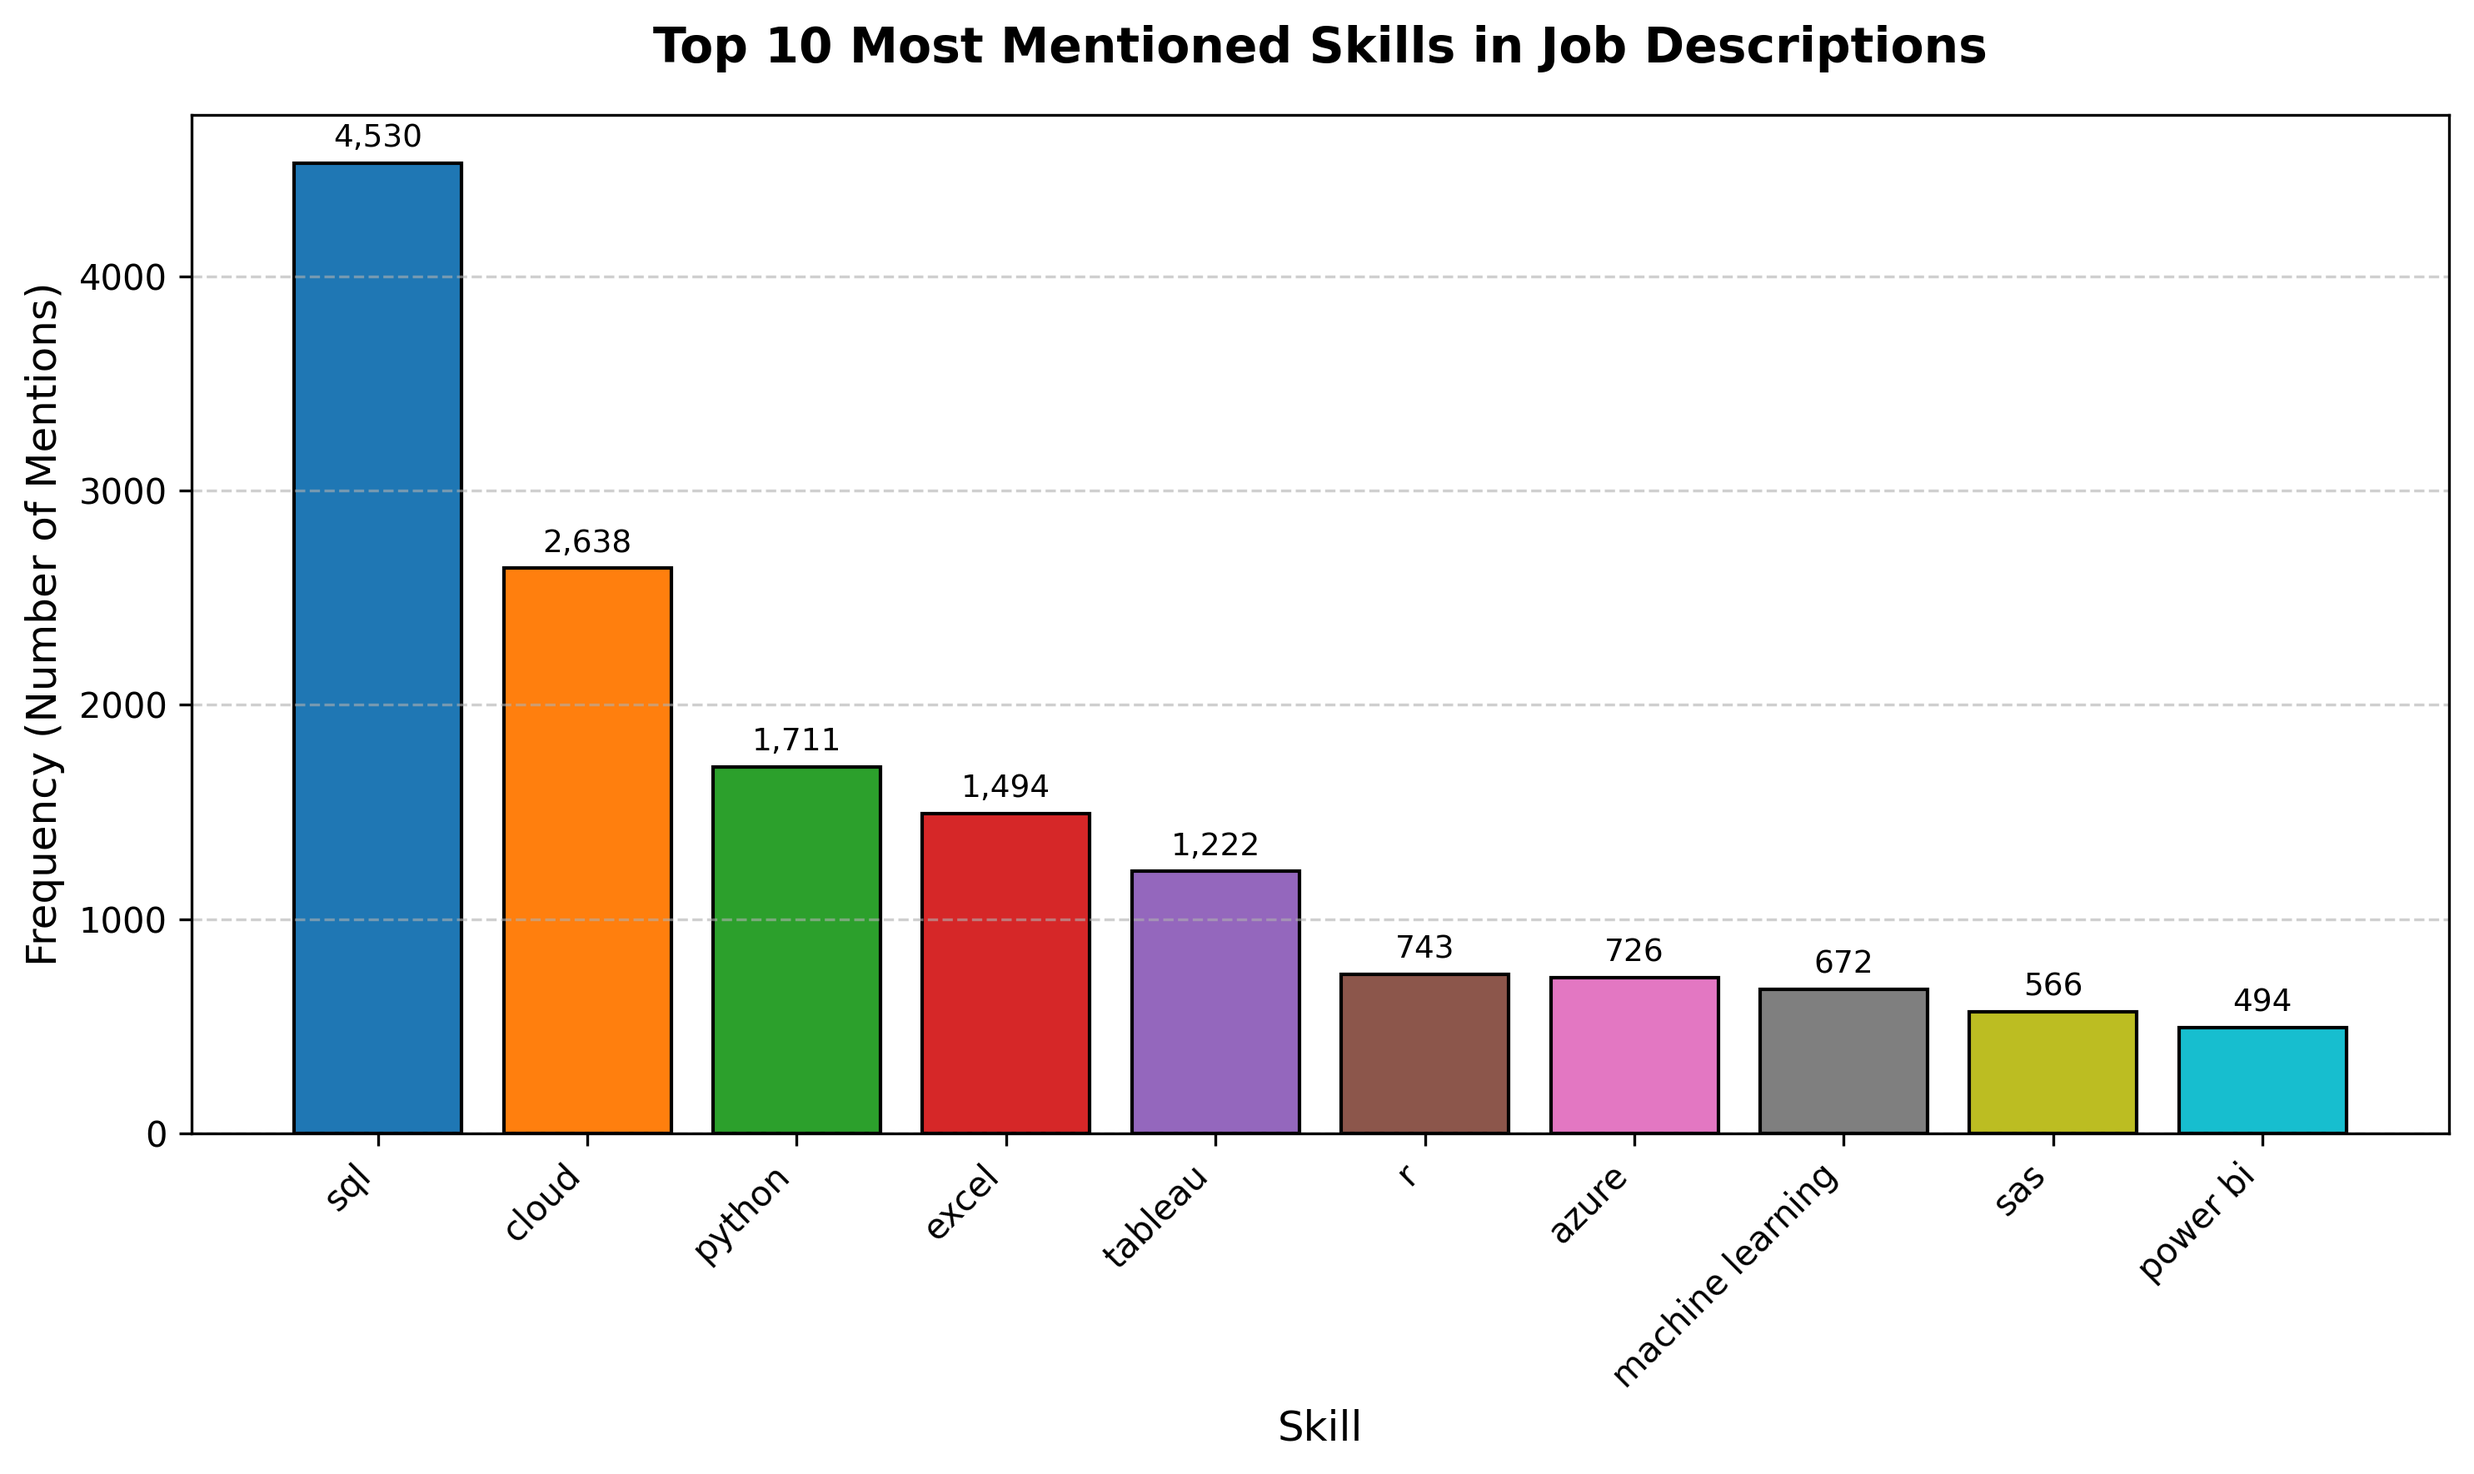
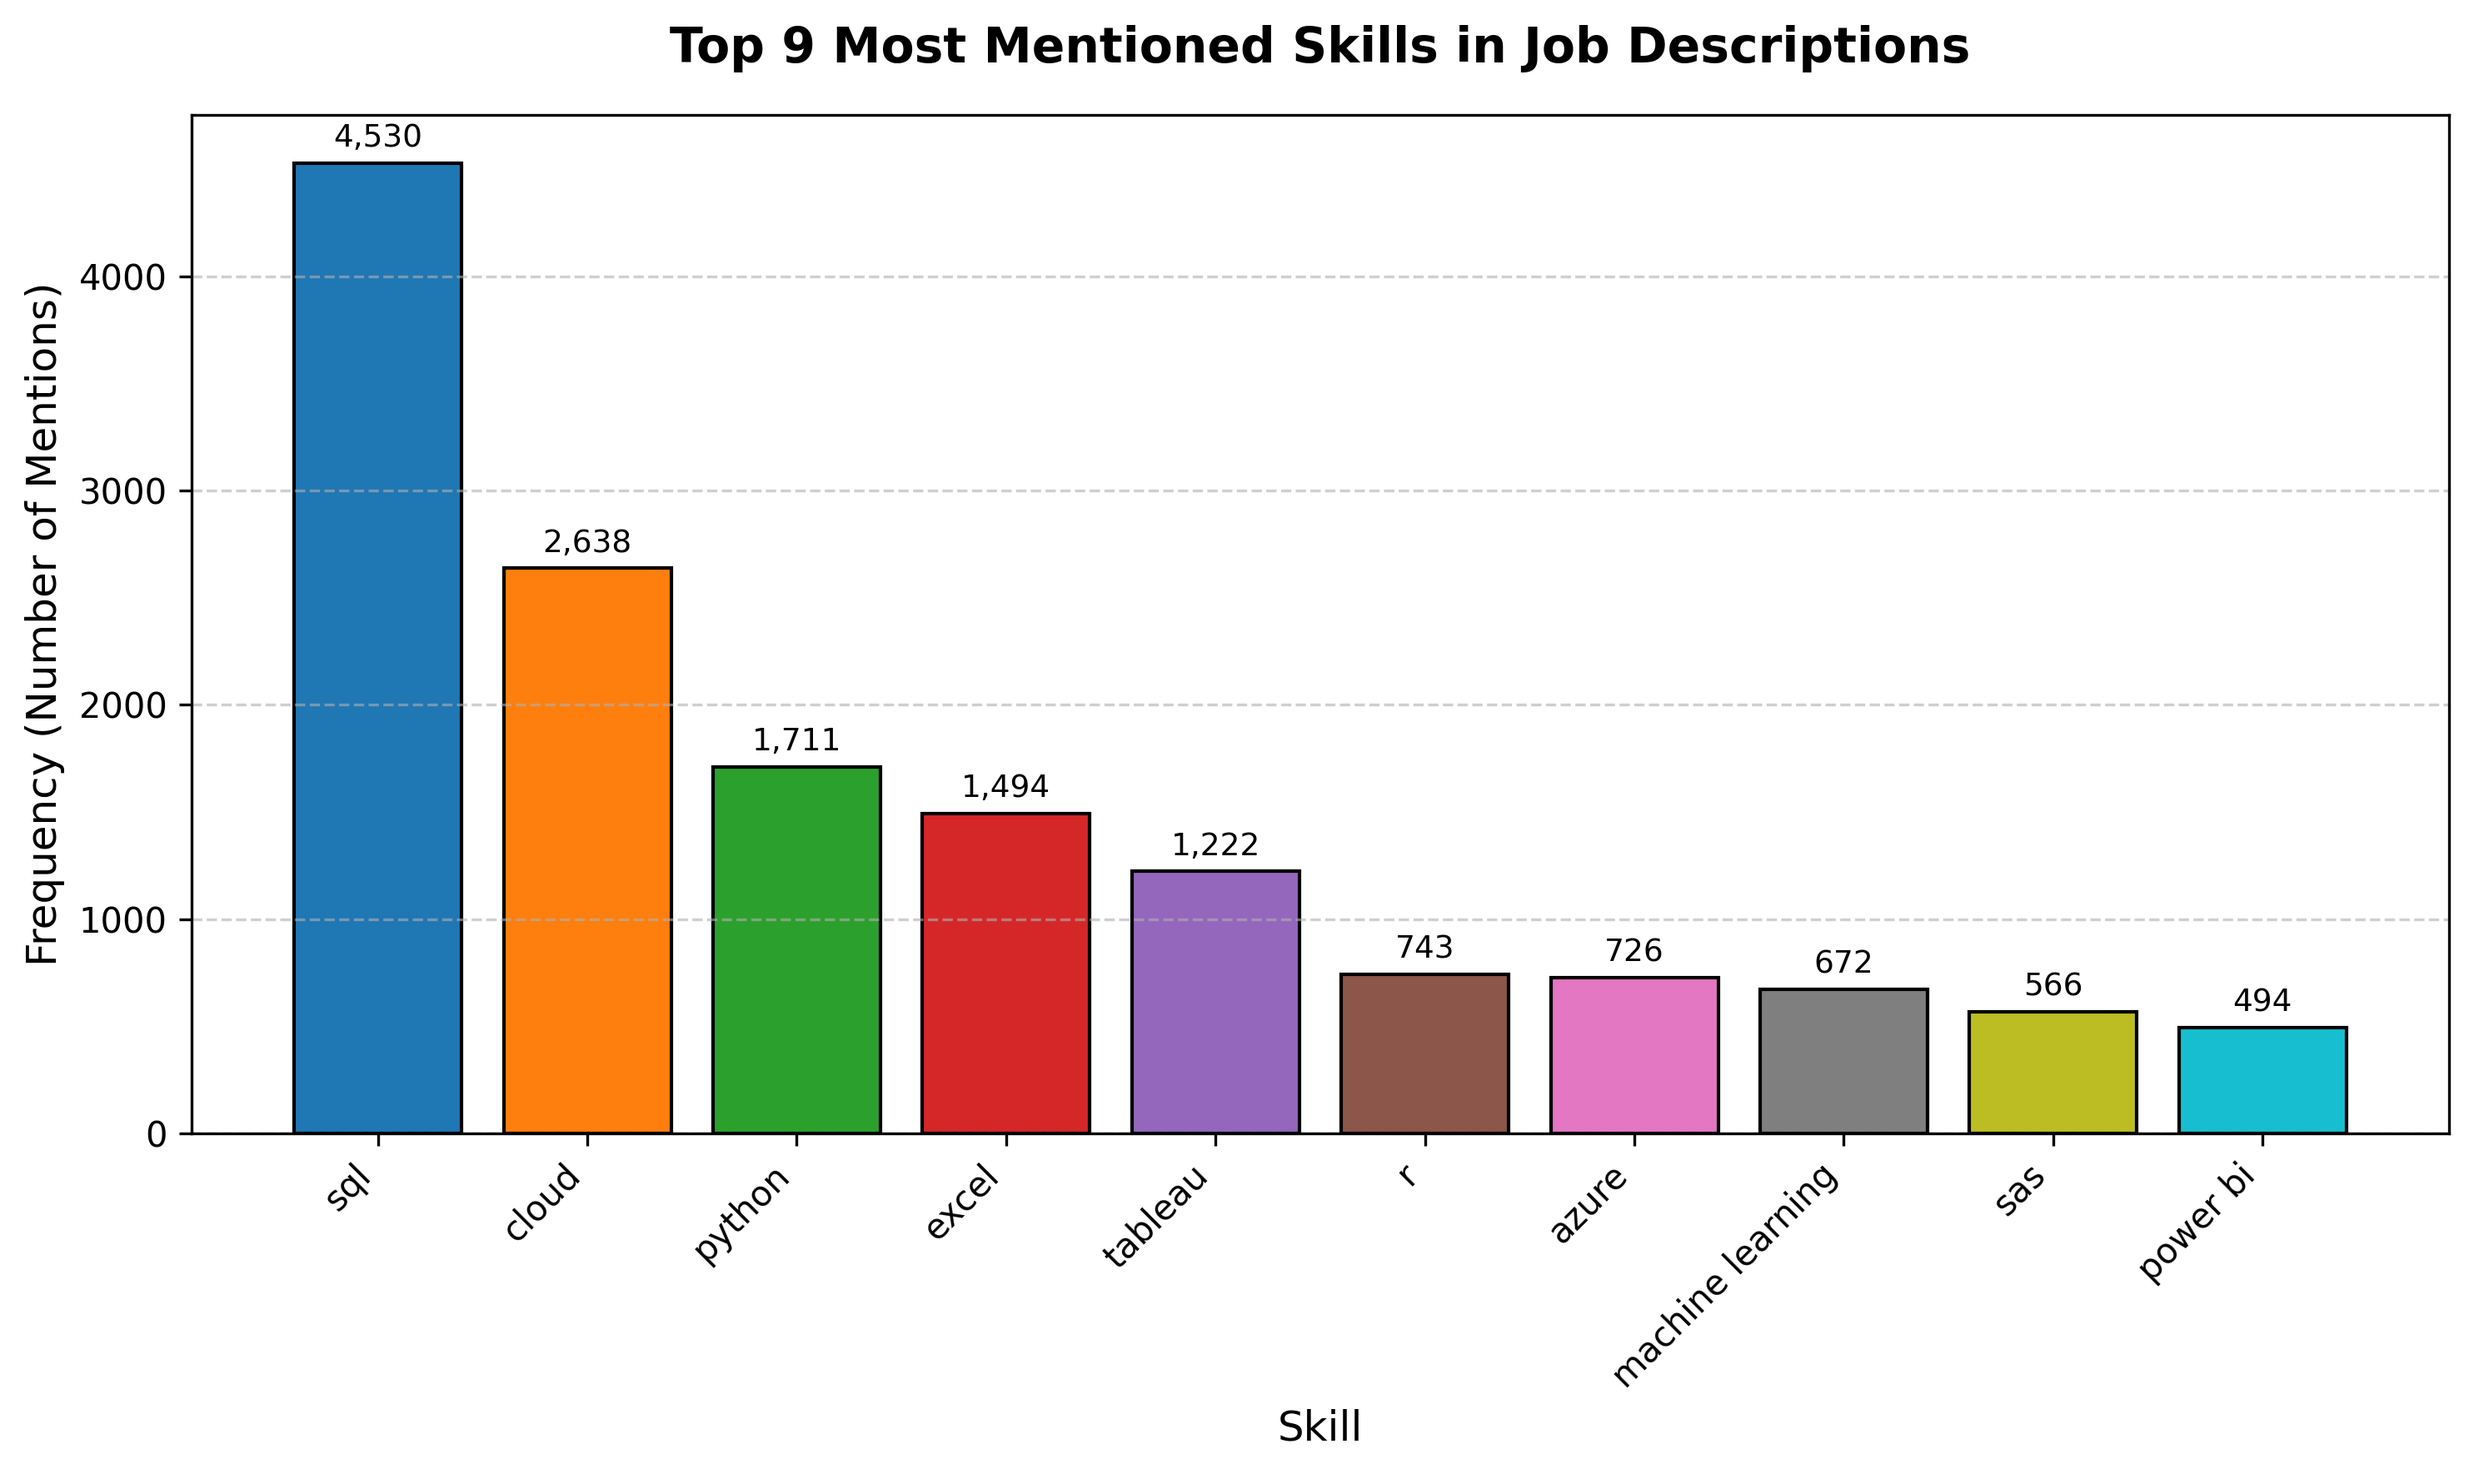
skill gap updated numbers

Changed region(s): [[0.2788, 0.0, 0.8054, 0.0621]]

diff --git a/docs/skill_gap_analysis.html b/docs/skill_gap_analysis.html
@@ -218,7 +218,7 @@ pre > code.sourceCode > span > a:first-child::before { text-decoration: underlin
 <section id="team-dataframe" class="level1" data-number="1">
 <h1 data-number="1"><span class="header-section-number">1</span> Team Dataframe</h1>
 <p>Our team conducted an overview of our current technical skills when it comes to Business Analytics and our skill levels. The goal was to understand where the group’s strengths and weaknesses were, and understand how the data that was collected could relate to the data that was observed in the research conducted. This was used to identify strengths and weaknesses for the group while also identifying potential gaps within the group.</p>
-<div id="cff58336" class="cell" data-execution_count="1">
+<div id="b8f48ec5" class="cell" data-execution_count="1">
 <details class="code-fold">
 <summary>Code</summary>
 <div class="sourceCode cell-code" id="cb1"><pre class="sourceCode python code-with-copy"><code class="sourceCode python"><span id="cb1-1"><a href="#cb1-1" aria-hidden="true" tabindex="-1"></a><span class="im">import</span> pandas <span class="im">as</span> pd</span>
@@ -226,12 +226,12 @@ pre > code.sourceCode > span > a:first-child::before { text-decoration: underlin
 <span id="cb1-3"><a href="#cb1-3" aria-hidden="true" tabindex="-1"></a><span class="co"># Extended skills data</span></span>
 <span id="cb1-4"><a href="#cb1-4" aria-hidden="true" tabindex="-1"></a>skills_data <span class="op">=</span> {</span>
 <span id="cb1-5"><a href="#cb1-5" aria-hidden="true" tabindex="-1"></a>    <span class="st">"Name"</span>: [<span class="st">"Anu"</span>, <span class="st">"Cindy"</span>, <span class="st">"Gavin"</span>],</span>
-<span id="cb1-6"><a href="#cb1-6" aria-hidden="true" tabindex="-1"></a>    <span class="st">"Data Analysis"</span>: [<span class="dv">3</span>, <span class="dv">1</span>, <span class="dv">4</span>],</span>
-<span id="cb1-7"><a href="#cb1-7" aria-hidden="true" tabindex="-1"></a>    <span class="st">"Python"</span>: [<span class="dv">5</span>, <span class="dv">3</span>, <span class="dv">4</span>],</span>
-<span id="cb1-8"><a href="#cb1-8" aria-hidden="true" tabindex="-1"></a>    <span class="st">"SQL"</span>: [<span class="dv">4</span>, <span class="dv">2</span>, <span class="dv">5</span>],</span>
-<span id="cb1-9"><a href="#cb1-9" aria-hidden="true" tabindex="-1"></a>    <span class="st">"Machine Learning"</span>: [<span class="dv">3</span>, <span class="dv">1</span>, <span class="dv">4</span>],</span>
-<span id="cb1-10"><a href="#cb1-10" aria-hidden="true" tabindex="-1"></a>    <span class="st">"Cloud Computing"</span>: [<span class="dv">2</span>, <span class="dv">2</span>, <span class="dv">3</span>],</span>
-<span id="cb1-11"><a href="#cb1-11" aria-hidden="true" tabindex="-1"></a>    <span class="st">"Power BI"</span>: [<span class="dv">3</span>, <span class="dv">2</span>, <span class="dv">4</span>],</span>
+<span id="cb1-6"><a href="#cb1-6" aria-hidden="true" tabindex="-1"></a>    <span class="st">"Data Analysis"</span>: [<span class="dv">3</span>, <span class="dv">4</span>, <span class="dv">4</span>],</span>
+<span id="cb1-7"><a href="#cb1-7" aria-hidden="true" tabindex="-1"></a>    <span class="st">"Python"</span>: [<span class="dv">5</span>, <span class="dv">3</span>, <span class="dv">3</span>],</span>
+<span id="cb1-8"><a href="#cb1-8" aria-hidden="true" tabindex="-1"></a>    <span class="st">"SQL"</span>: [<span class="dv">4</span>, <span class="dv">3</span>, <span class="dv">2</span>],</span>
+<span id="cb1-9"><a href="#cb1-9" aria-hidden="true" tabindex="-1"></a>    <span class="st">"Machine Learning"</span>: [<span class="dv">3</span>, <span class="dv">2</span>, <span class="dv">2</span>],</span>
+<span id="cb1-10"><a href="#cb1-10" aria-hidden="true" tabindex="-1"></a>    <span class="st">"Cloud Computing"</span>: [<span class="dv">2</span>, <span class="dv">3</span>, <span class="dv">2</span>],</span>
+<span id="cb1-11"><a href="#cb1-11" aria-hidden="true" tabindex="-1"></a>    <span class="st">"Power BI"</span>: [<span class="dv">3</span>, <span class="dv">5</span>, <span class="dv">3</span>],</span>
 <span id="cb1-12"><a href="#cb1-12" aria-hidden="true" tabindex="-1"></a>    </span>
 <span id="cb1-13"><a href="#cb1-13" aria-hidden="true" tabindex="-1"></a>}</span>
 <span id="cb1-14"><a href="#cb1-14" aria-hidden="true" tabindex="-1"></a></span>
@@ -253,7 +253,7 @@ pre > code.sourceCode > span > a:first-child::before { text-decoration: underlin
 <span id="cb1-30"><a href="#cb1-30" aria-hidden="true" tabindex="-1"></a><span class="co"># df_styled</span></span></code><button title="Copy to Clipboard" class="code-copy-button"><i class="bi"></i></button></pre></div>
 </details>
 </div>
-<div id="fdccaf81" class="cell" data-execution_count="2">
+<div id="324597bf" class="cell" data-execution_count="2">
 <details class="code-fold">
 <summary>Code</summary>
 <div class="sourceCode cell-code" id="cb2"><pre class="sourceCode python code-with-copy"><code class="sourceCode python"><span id="cb2-1"><a href="#cb2-1" aria-hidden="true" tabindex="-1"></a><span class="im">import</span> seaborn <span class="im">as</span> sns</span>
@@ -290,7 +290,7 @@ pre > code.sourceCode > span > a:first-child::before { text-decoration: underlin
 <p>When looking at our groups skill gaps, the group should focus on our weakest points which are cloud computing and machine learning. Each group member can enroll in free online certifications such as certifications that were taken in this course that can enable learning about the systems that would be used like AWS or machine learning platforms. These platforms often provide trainings for little to no cost, and while attending a university can obtain discounts in order to obtain the certifications that would be required to enable jobs that would result in more exposure to amplify the skills to increase the proficiency for each individual in the group. AWS Certifications hold a majority of the market because of their market share, and starting with</p>
 <p>(Refine this, look at AWS classes and list what they can provide and how much they would cost, which ones are the most beneficial)</p>
 <p>For Machine learning (find specific examples)</p>
-<div id="7ebb334f" class="cell" data-execution_count="3">
+<div id="4ae9b416" class="cell" data-execution_count="3">
 <details class="code-fold">
 <summary>Code</summary>
 <div class="sourceCode cell-code" id="cb3"><pre class="sourceCode python code-with-copy"><code class="sourceCode python"><span id="cb3-1"><a href="#cb3-1" aria-hidden="true" tabindex="-1"></a><span class="co"># Skill Key Words</span></span>
@@ -344,7 +344,7 @@ pre > code.sourceCode > span > a:first-child::before { text-decoration: underlin
 <span id="cb3-49"><a href="#cb3-49" aria-hidden="true" tabindex="-1"></a>skills_df <span class="op">=</span> skills_df.sort_values(by<span class="op">=</span><span class="st">"Count"</span>, ascending<span class="op">=</span><span class="va">False</span>).reset_index(drop<span class="op">=</span><span class="va">True</span>)</span>
 <span id="cb3-50"><a href="#cb3-50" aria-hidden="true" tabindex="-1"></a>skills_df.head(<span class="dv">10</span>)</span></code><button title="Copy to Clipboard" class="code-copy-button"><i class="bi"></i></button></pre></div>
 </details>
-<div class="cell-output cell-output-display" data-execution_count="41">
+<div class="cell-output cell-output-display" data-execution_count="8">
 <div>
 <div>
 
@@ -415,7 +415,7 @@ pre > code.sourceCode > span > a:first-child::before { text-decoration: underlin
 </div>
 </div>
 </div>
-<div id="8abf2c20" class="cell" data-execution_count="4">
+<div id="5b173f08" class="cell" data-execution_count="4">
 <details class="code-fold">
 <summary>Code</summary>
 <div class="sourceCode cell-code" id="cb4"><pre class="sourceCode python code-with-copy"><code class="sourceCode python"><span id="cb4-1"><a href="#cb4-1" aria-hidden="true" tabindex="-1"></a><span class="im">import</span> matplotlib.pyplot <span class="im">as</span> plt</span>
@@ -433,7 +433,7 @@ pre > code.sourceCode > span > a:first-child::before { text-decoration: underlin
 <span id="cb4-13"><a href="#cb4-13" aria-hidden="true" tabindex="-1"></a>bars <span class="op">=</span> plt.bar(skills, counts, color<span class="op">=</span>colors, edgecolor<span class="op">=</span><span class="st">"black"</span>)</span>
 <span id="cb4-14"><a href="#cb4-14" aria-hidden="true" tabindex="-1"></a></span>
 <span id="cb4-15"><a href="#cb4-15" aria-hidden="true" tabindex="-1"></a><span class="co"># Titles and labels</span></span>
-<span id="cb4-16"><a href="#cb4-16" aria-hidden="true" tabindex="-1"></a>plt.title(<span class="st">"Top 10 Most Mentioned Skills in Job Descriptions"</span>, fontsize<span class="op">=</span><span class="dv">14</span>, fontweight<span class="op">=</span><span class="st">"bold"</span>, pad<span class="op">=</span><span class="dv">15</span>)</span>
+<span id="cb4-16"><a href="#cb4-16" aria-hidden="true" tabindex="-1"></a>plt.title(<span class="st">"Top 9 Most Mentioned Skills in Job Descriptions"</span>, fontsize<span class="op">=</span><span class="dv">14</span>, fontweight<span class="op">=</span><span class="st">"bold"</span>, pad<span class="op">=</span><span class="dv">15</span>)</span>
 <span id="cb4-17"><a href="#cb4-17" aria-hidden="true" tabindex="-1"></a>plt.xlabel(<span class="st">"Skill"</span>, fontsize<span class="op">=</span><span class="dv">12</span>)</span>
 <span id="cb4-18"><a href="#cb4-18" aria-hidden="true" tabindex="-1"></a>plt.ylabel(<span class="st">"Frequency (Number of Mentions)"</span>, fontsize<span class="op">=</span><span class="dv">12</span>)</span>
 <span id="cb4-19"><a href="#cb4-19" aria-hidden="true" tabindex="-1"></a></span>
